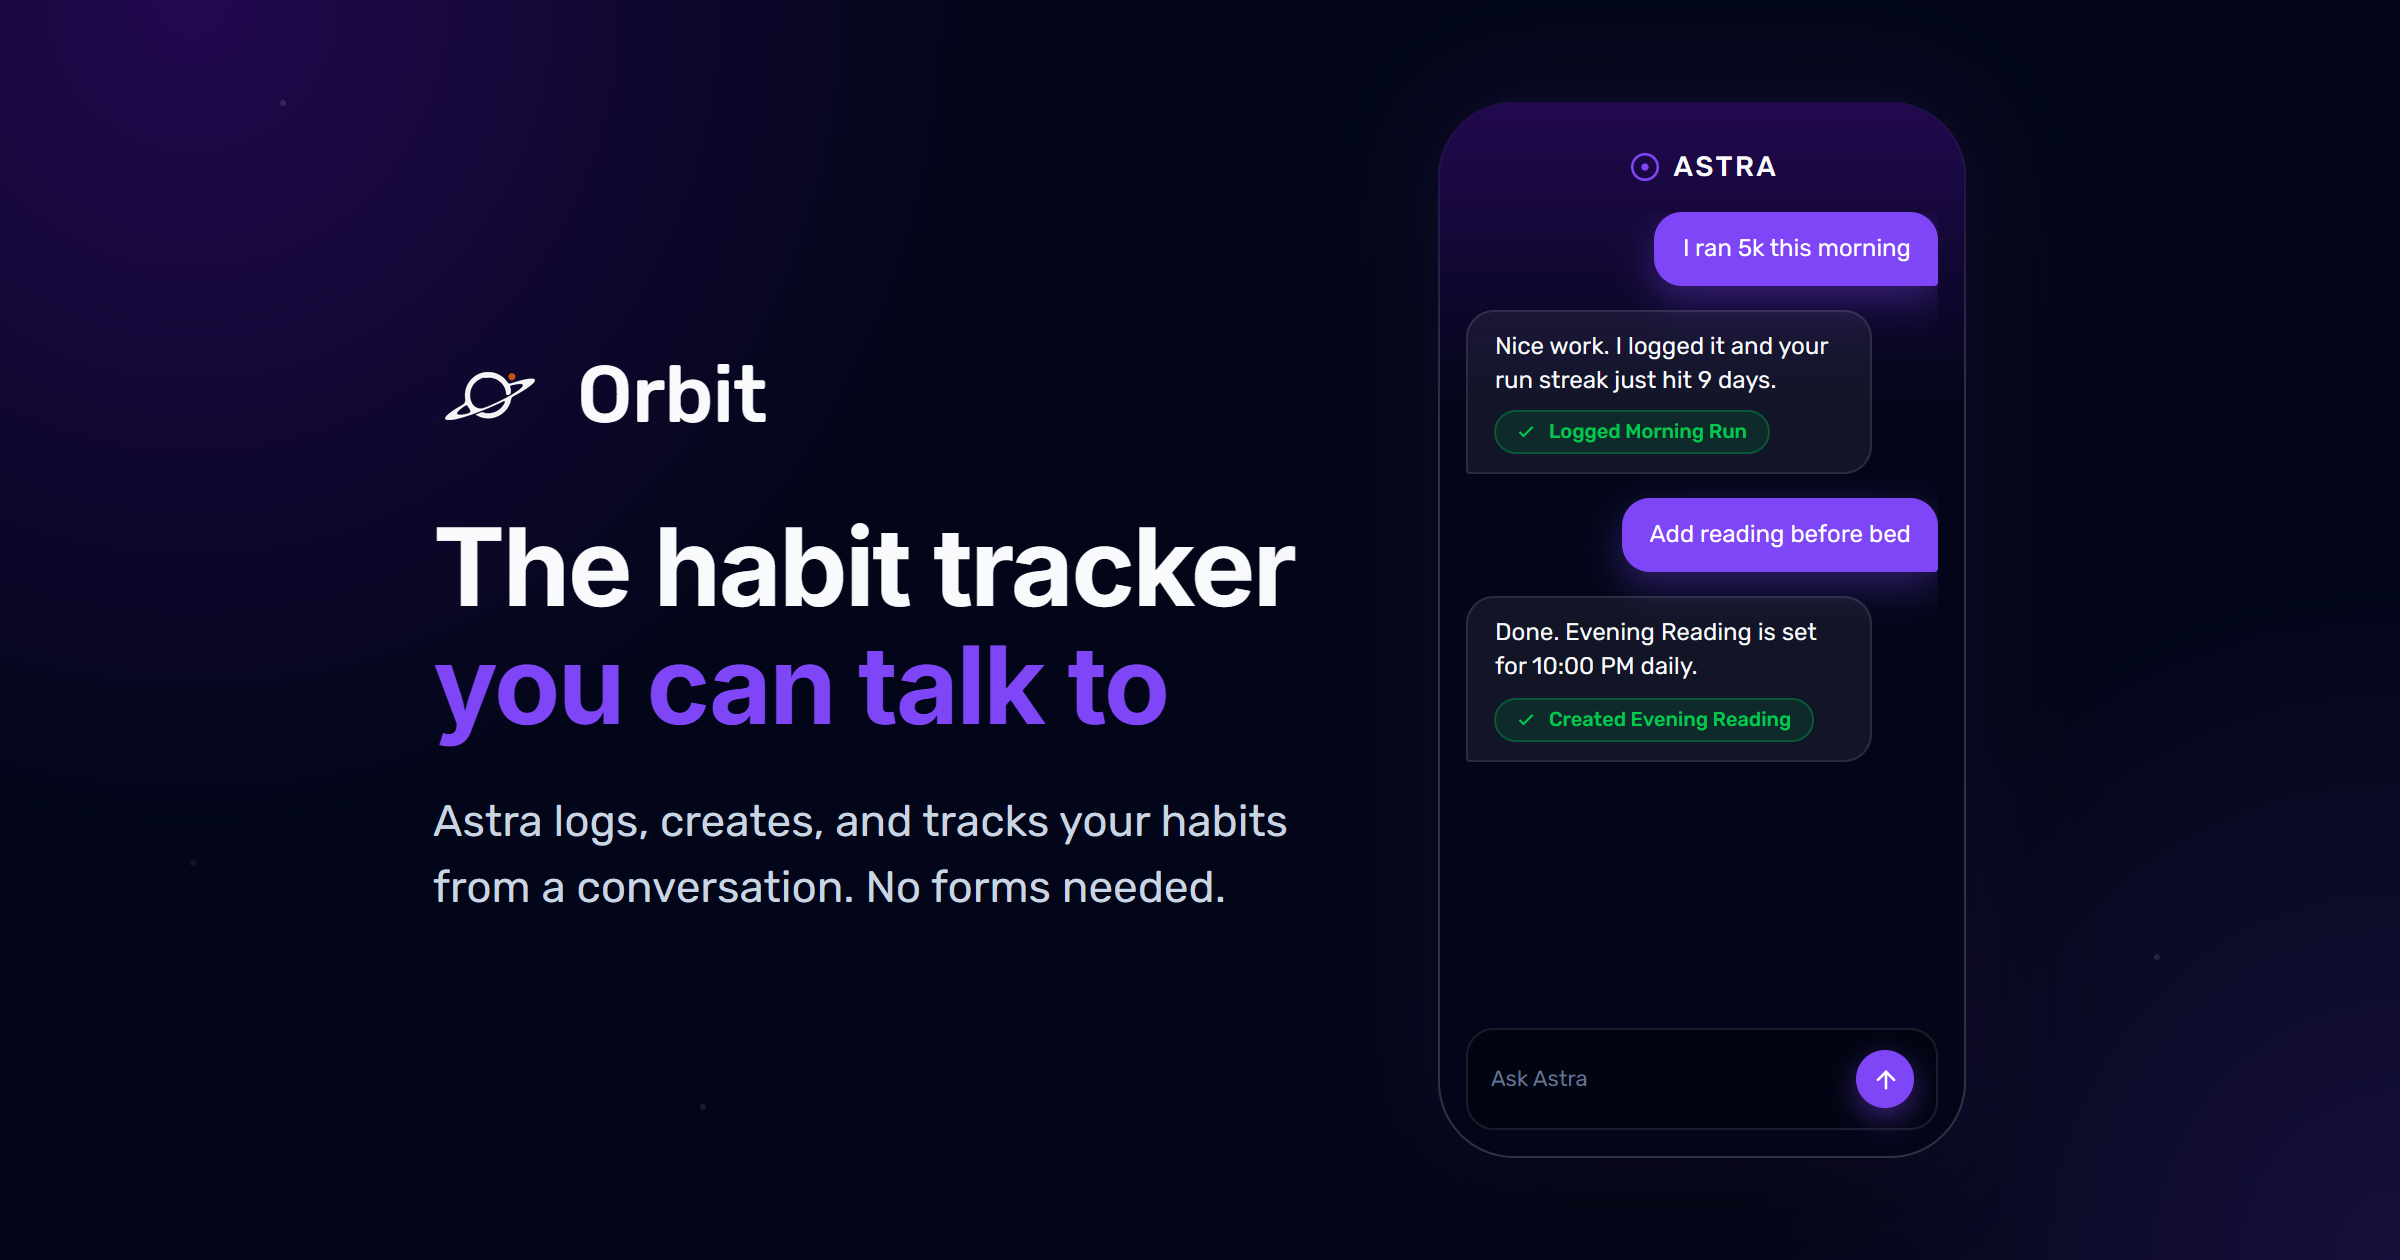
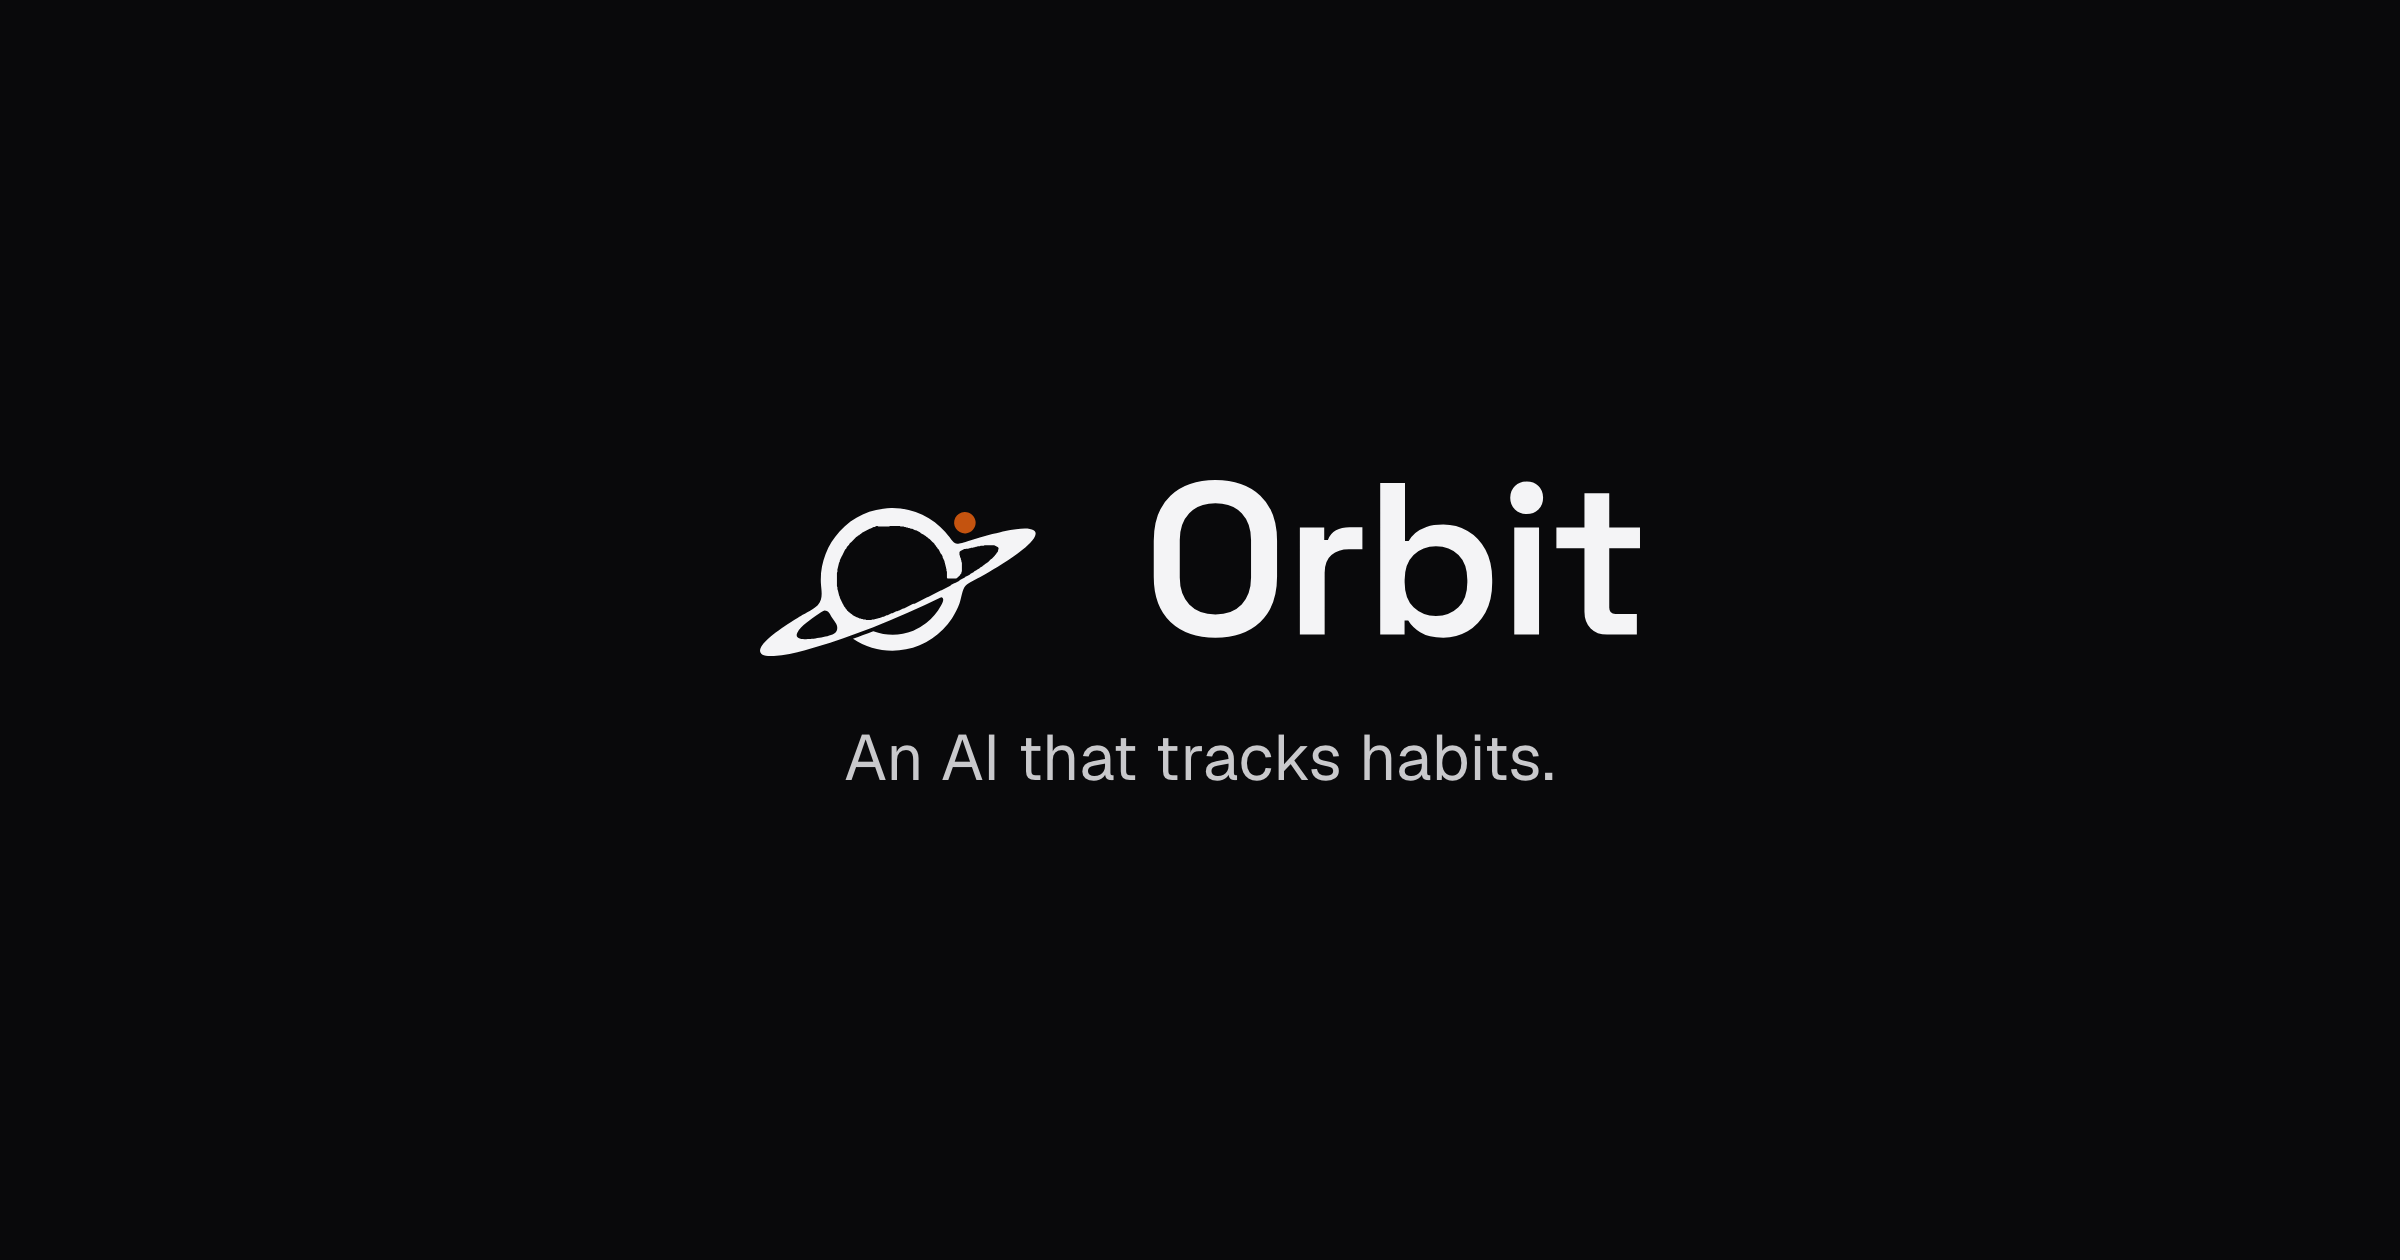
fix: replace the link preview image with the redesigned brand image (#114)
Closes https://github.com/thomasluizon/orbit-tickets/issues/1583.

Every link preview of `https://useorbit.org` still showed the old purple
design. This replaces `public/og-image.png` with the redesigned brand
image at the same path and size (2400x1260, 1200x630 at 2x): the Orbit
lockup with the `--primary` moon and the BRAND.md line "An AI that
tracks habits." on `--bg` (`#09090B`), in Geist Sans 400 `--fg-2`, the
same composition as the other launch brand images (Facebook cover, Play
feature graphic). No glow and no gradient.

`src/layouts/Layout.astro` keeps serving `/og-image.png` for `og:image`
and `twitter:image`, so no markup changes.

## Regeneration

`npm run brand:generate` used to composite the mark onto the old purple
`src/assets/og-background.png` and write `public/og-image.png`, which
would restore the old preview. The social card is now a committed source
image: `tools/generate-brand-assets.mjs` no longer writes it, the stale
background is deleted, and `public/brand/README.md` documents the card
and what the generator covers. `tools/brand-assets.test.mjs` still
checks `public/og-image.png` at 2400 x 1260.

## Verification

- `sips -g pixelWidth -g pixelHeight public/og-image.png`: 2400 x 1260.
- Rendered from a self-contained HTML page in headless Chromium at
deviceScaleFactor 2 with the brand SVG paths and the bundled Geist font.

## Manual steps

- After merge: release the landing to production (`release.yml`,
environment `production`), then confirm
[…]

diff --git a/public/brand/README.md b/public/brand/README.md
@@ -4,7 +4,7 @@ The SVGs mirror `orbit-ui-mobile/design/brand/`. Keep their geometry aligned
 with the app's `tools/generate-brand-assets.mjs`.
 
 Run `npm run brand:generate` from the landing repository root to regenerate the
-public PNGs and the ICO. Generation reads only files in this repository.
+favicons, the Apple icon, the logo PNG and the ICO. Generation reads only files in this repository.
 
 The 16px favicon uses the native redraw without trimming or scaling. The larger
 favicons use the accent mark at 68% width. All favicon layers have a `#09090B`
@@ -12,9 +12,10 @@ disc. The 180px Apple icon uses a solid canvas and 60% mark width. The shared
 96px transparent logo uses 80% mark width. Foreground and moon colors follow
 the canonical generator; landing CSS tokens remain unchanged.
 
-`src/assets/og-background.png` is the 2400 by 1260 social card background.
-The generator composites the canonical mark into its logo tile area while
-preserving the card's copy and surrounding artwork.
+`public/og-image.png` is the 2400 by 1260 social card: the Orbit lockup with
+the accent moon and the line "An AI that tracks habits." on `#09090B`, the same
+composition as the app's launch brand images. It is a committed source image,
+and the generator does not write it.
 
 The SVGs use `currentColor`; inline them when consuming them directly. Image
 elements use the baked `logo.png` so the foreground and moon colors resolve.
